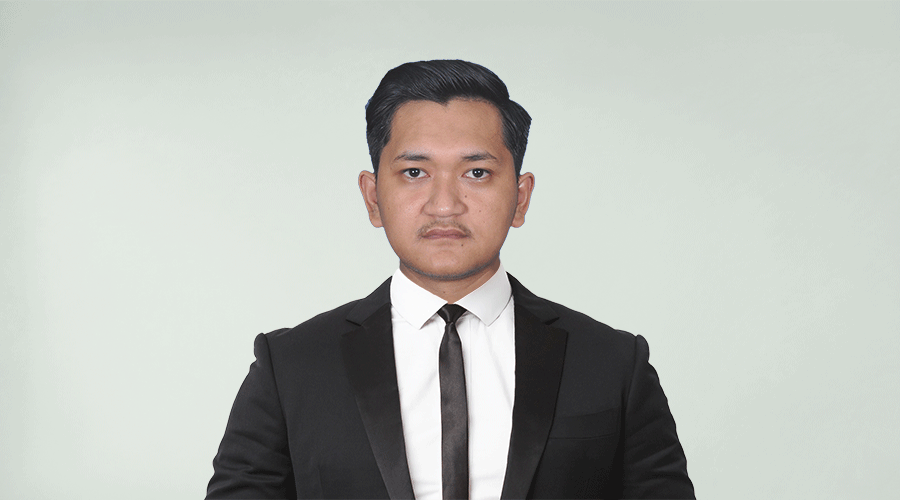
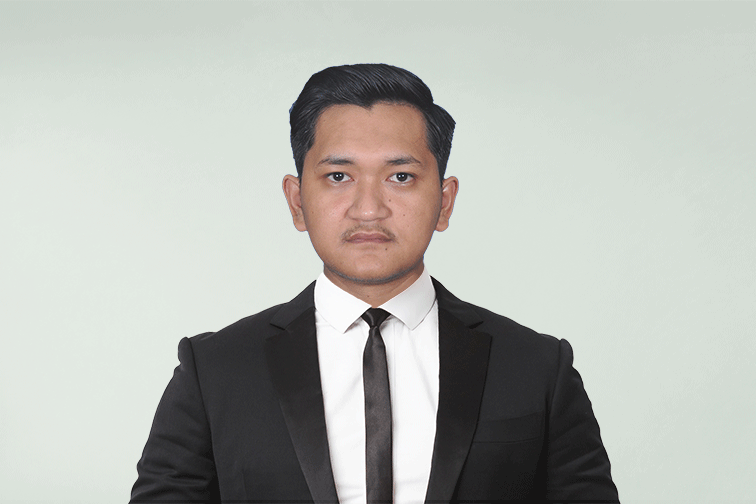
update views

Changed region(s): [[0.1521, 0.12, 0.6085, 1.0], [0.6997, 0.66, 0.8214, 1.0], [0.6085, 0.6, 0.6997, 0.66]]

diff --git a/index.html b/index.html
@@ -105,23 +105,43 @@
     </div>
 
     <div class="container about" id="aboutSection">
-      <div class="row g-3 justify-content-center">
-        <div class="col-lg-6">
-          <img src="./assets/profile.png" alt="" class="img-fluid" />
+      <div class="row g-4 justify-content-center">
+        <div class="col-lg-5">
+          <div class="about-image-container">
+            <img
+              src="./assets/profile.png"
+              alt=""
+              class="img-fluid about-image"
+            />
+          </div>
         </div>
-        <div class="col-lg-6">
-          <div class="title">About me</div>
+        <div class="col-lg-7">
+          <div class="title fw-bold">About me</div>
           <div class="desc">
-            I am a highly enthusiastic student with a strong passion for a
-            career as a front-end web developer, and I have been deeply involved
-            in this field for over 2 years. I possess knowledge and skills in
-            <span class="fw-bold"
-              >HTML, CSS, JavaScript, Bootstrap, VueJS, ReactJS, PHP, and
-              Laravel.</span
-            >
-            Enabling me to create appealing and functional web interfaces. I am
-            ready to take on new challenges and continue to grow in the field of
-            front-end web development.
+            <div>
+              I am a highly enthusiastic individual with a strong passion for a
+              career as a front-end web developer, and I have been deeply
+              involved in this field for over 2 years. I possess knowledge and
+              skills in
+              <span class="fw-bold">
+                HTML, CSS, JavaScript, Bootstrap, VueJS, ReactJS, PHP, and
+                Laravel,
+              </span>
+              enabling me to create appealing and functional web interfaces.
+            </div>
+            <div class="mt-2">
+              In addition to my web development expertise, I am also skilled in
+              graphic design, with proficiency in tools like Photoshop, Adobe
+              Illustrator, and Figma. This combination of skills allows me to
+              deliver visually striking designs and seamless user experiences.
+            </div>
+            <div class="mt-2">
+              Check out my
+              <a href="/graphic_design.html">Graphic Design Portfolio</a> to
+              explore some of my creative works. I am ready to take on new
+              challenges and continue to grow in both front-end web development
+              and graphic design.
+            </div>
           </div>
           <div class="social mt-3">
             <a
@@ -167,7 +187,7 @@
     </div>
 
     <div class="container experience" id="expSection">
-      <div class="title mb-3">Experience</div>
+      <div class="title fw-bold mb-3">Experience</div>
       <div class="row g-3">
         <div class="col-lg-4 col-md-6">
           <div class="card card-exp">
@@ -250,7 +270,7 @@
     </div>
 
     <div class="container projects" id="projectSection">
-      <h1 class="title mb-3">Featured Projects</h1>
+      <h1 class="title fw-bold mb-3">Featured Projects</h1>
       <div class="row g-3">
         <div class="col-lg-12">
           <img

diff --git a/graphic_design.html b/graphic_design.html
@@ -1,0 +1,35 @@
+<!DOCTYPE html>
+<html lang="en">
+  <head>
+    <meta charset="utf-8" />
+    <meta name="viewport" content="width=device-width, initial-scale=1" />
+    <title>M. Yudha Pamungkas</title>
+    <link rel="icon" href="./assets/favicon.ico" type="image/x-icon" />
+    <link rel="shortcut icon" href="./assets/favicon.ico" type="image/x-icon" />
+    <link
+      href="https://cdn.jsdelivr.net/npm/bootstrap@5.3.3/dist/css/bootstrap.min.css"
+      rel="stylesheet"
+      integrity="sha384-QWTKZyjpPEjISv5WaRU9OFeRpok6YctnYmDr5pNlyT2bRjXh0JMhjY6hW+ALEwIH"
+      crossorigin="anonymous"
+    />
+
+    <!-- Css -->
+    <link rel="stylesheet" href="./style.css" />
+
+    <!-- Font -->
+    <link rel="preconnect" href="https://fonts.googleapis.com" />
+
+    <!-- Icons -->
+    <link
+      rel="stylesheet"
+      href="https://cdn.jsdelivr.net/npm/bootstrap-icons@1.11.3/font/bootstrap-icons.min.css"
+    />
+  </head>
+  <body>
+    <div class="container hero">
+      <h1 class="heading-hero text-center">
+        Sorry, this page is under <span class="bold">maintenance.</span>
+      </h1>
+    </div>
+  </body>
+</html>

diff --git a/style.css b/style.css
@@ -16,8 +16,6 @@ body {
    flex-direction: column;
 }
 
-
-
 .heading-hero {
    font-family: 'Work Sans', sans-serif;
    font-size: 5rem;
@@ -95,6 +93,19 @@ body {
 .about.animate {
    opacity: 1;
    transform: translateY(0);
+}
+
+.about-image-container {
+   width: 100%;
+   height: 100%;
+   overflow: hidden;
+}
+
+.about-image {
+   height: 100%;
+   width: auto;
+   max-width: 100%;
+   object-fit: cover;
 }
 
 .title {
